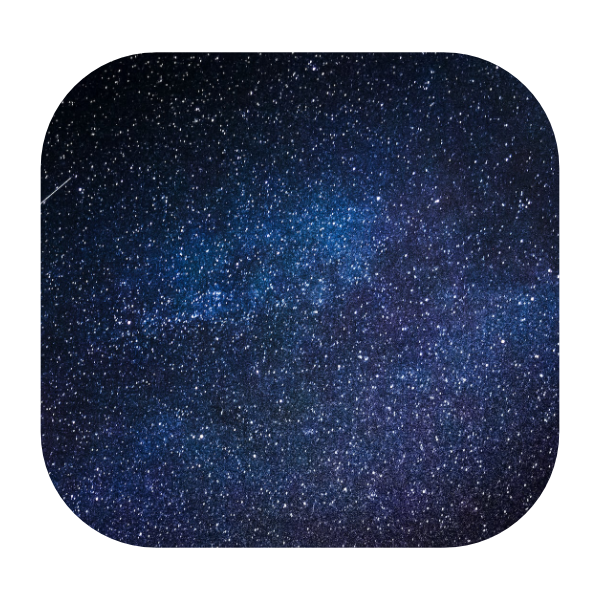
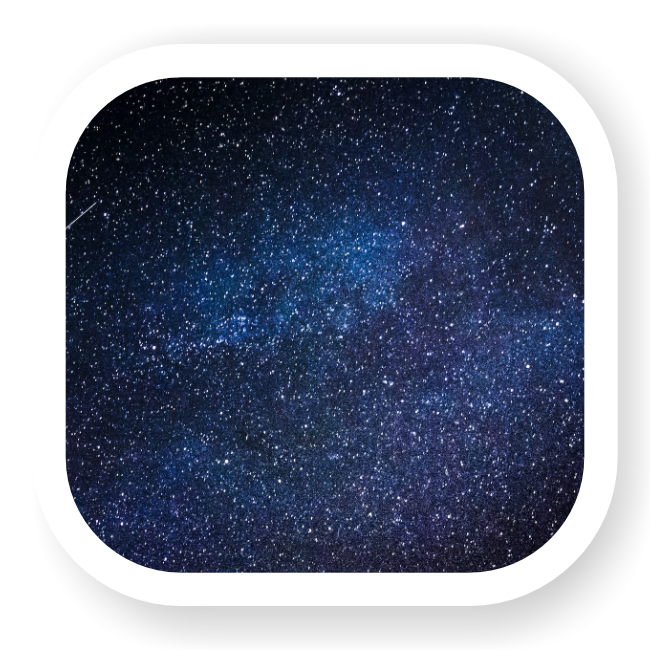
added shadow to theme buttons

diff --git a/tpStyle.css b/tpStyle.css
@@ -154,11 +154,12 @@ li .list-group-item{
     color: white;
     font-family: 'Fredoka One', cursive;
     letter-spacing: 2px;
-    text-shadow: 5px 5px 5px #02020254;
+    text-shadow: 5px 5px 12px #02020254;
 }
 
 #night{
     margin-left:12px;
+    
     
 }
 
